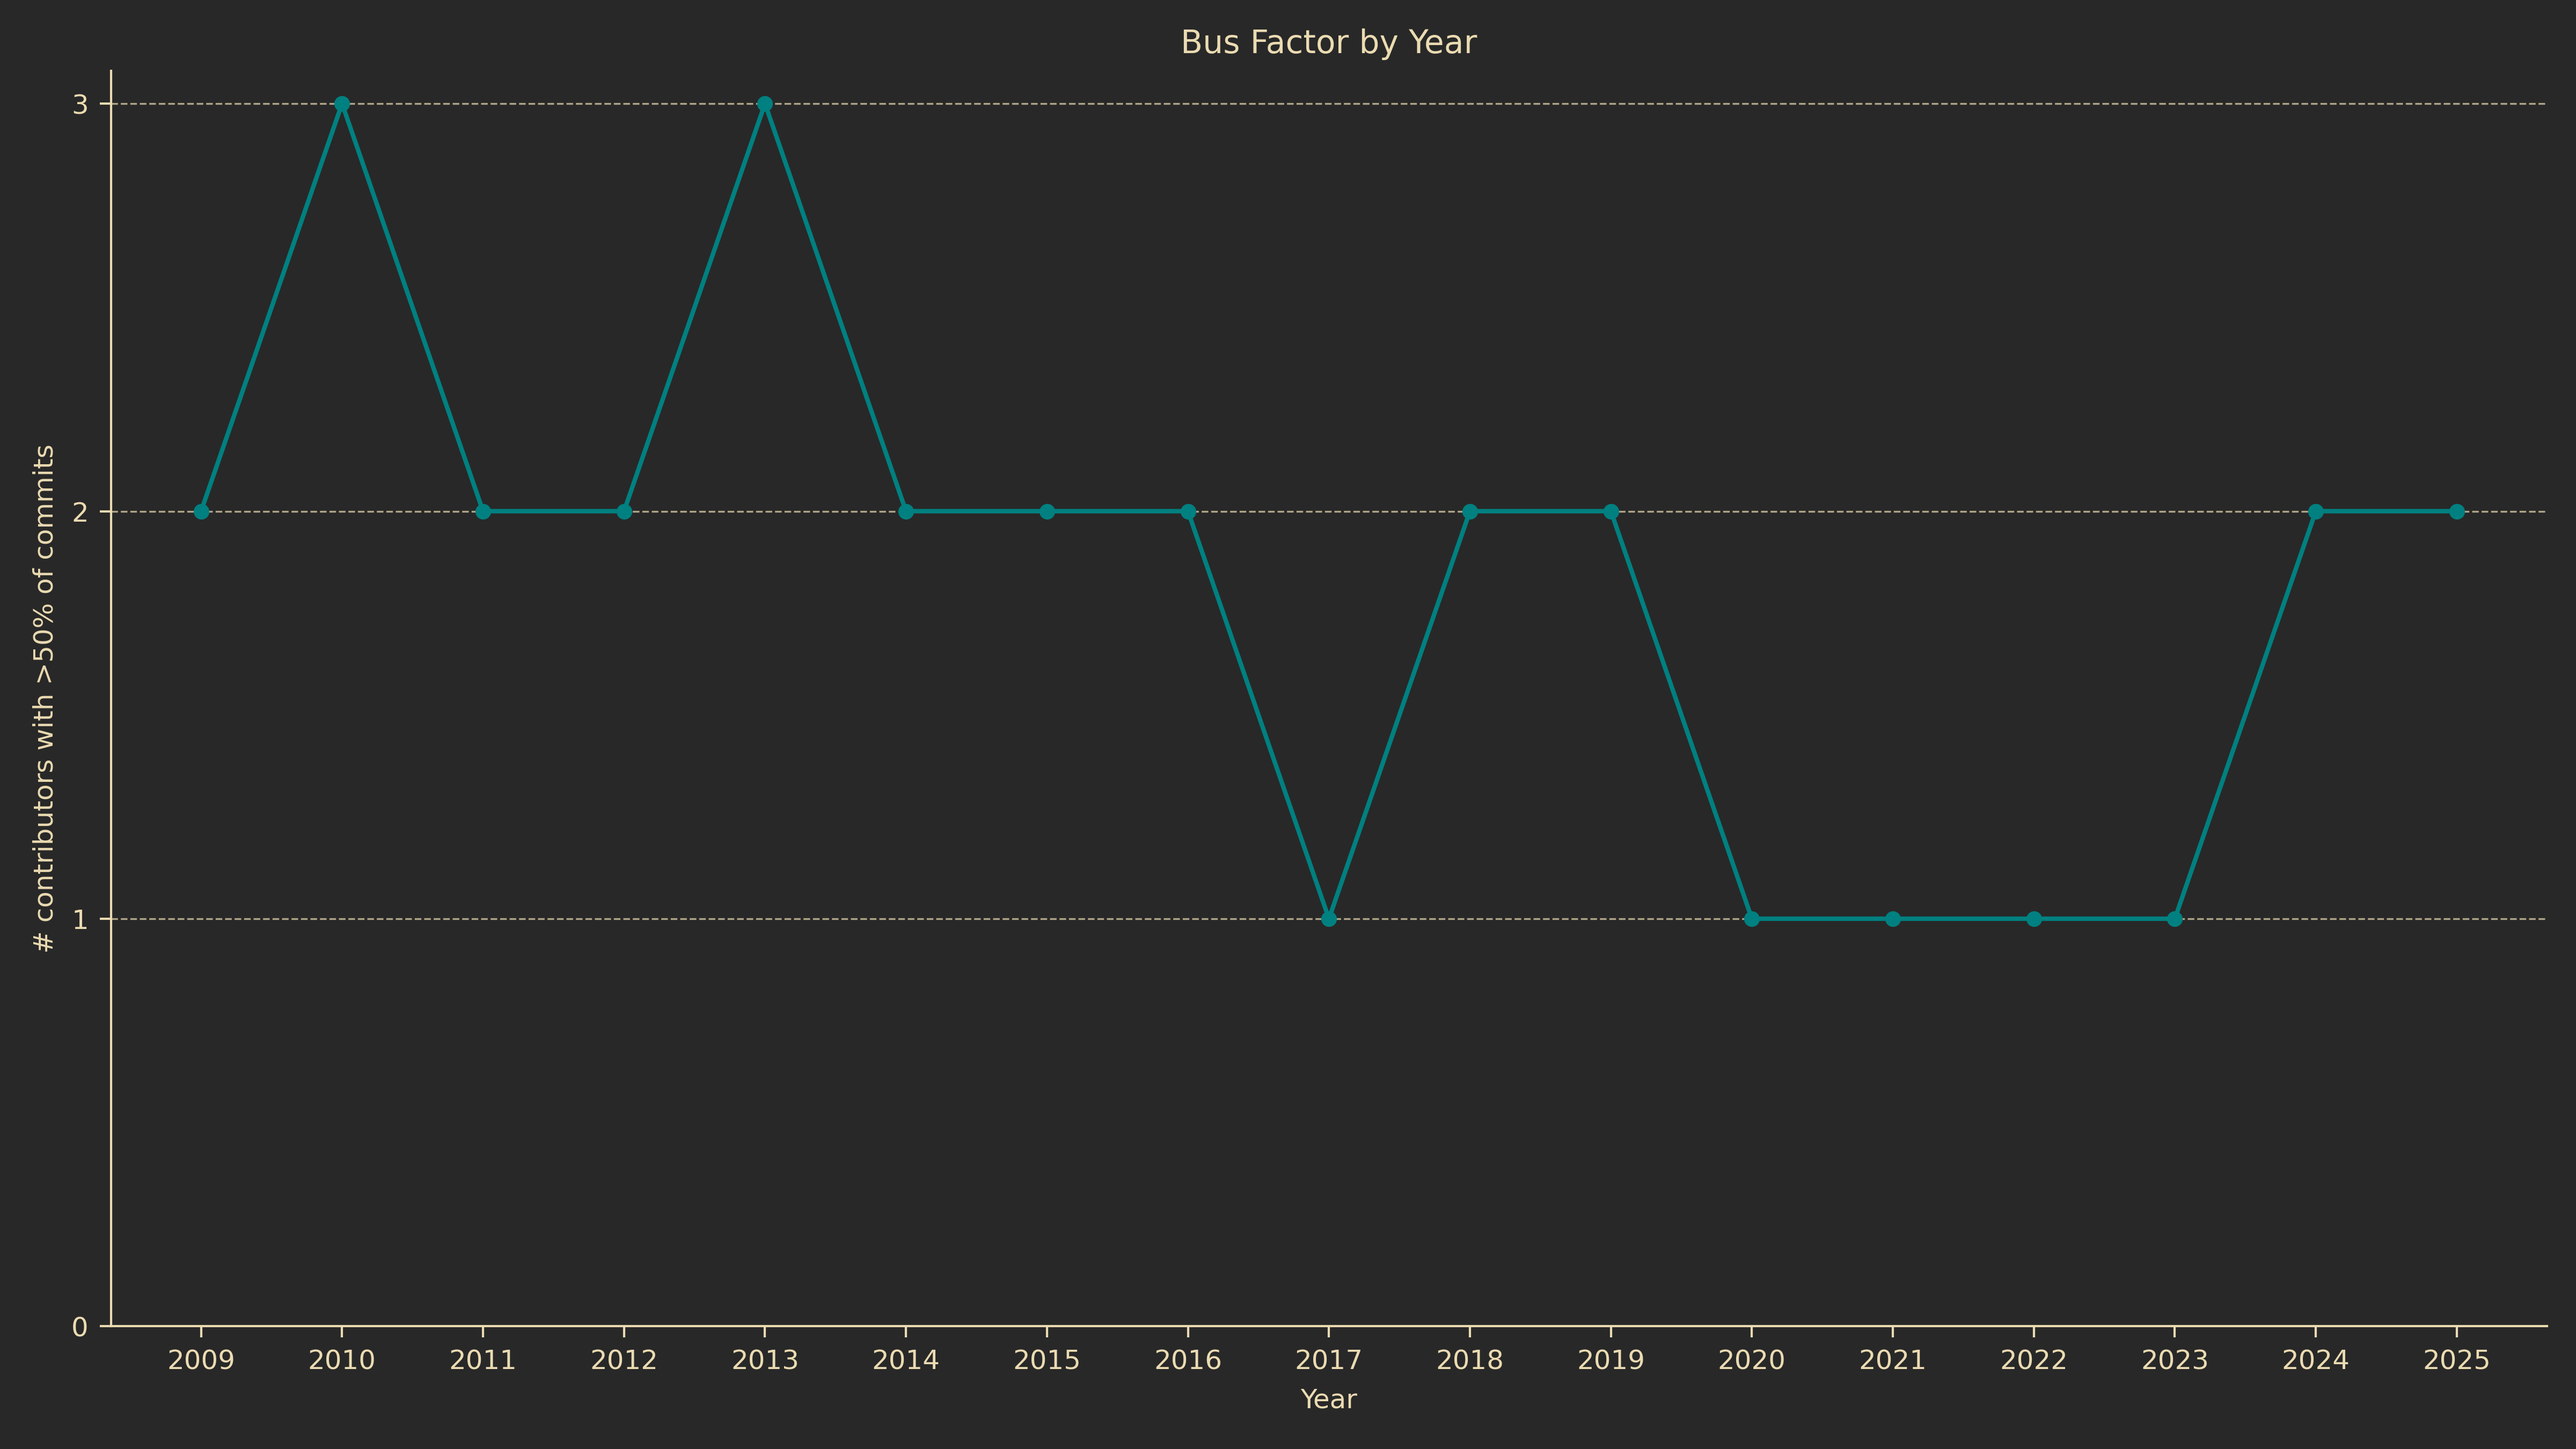
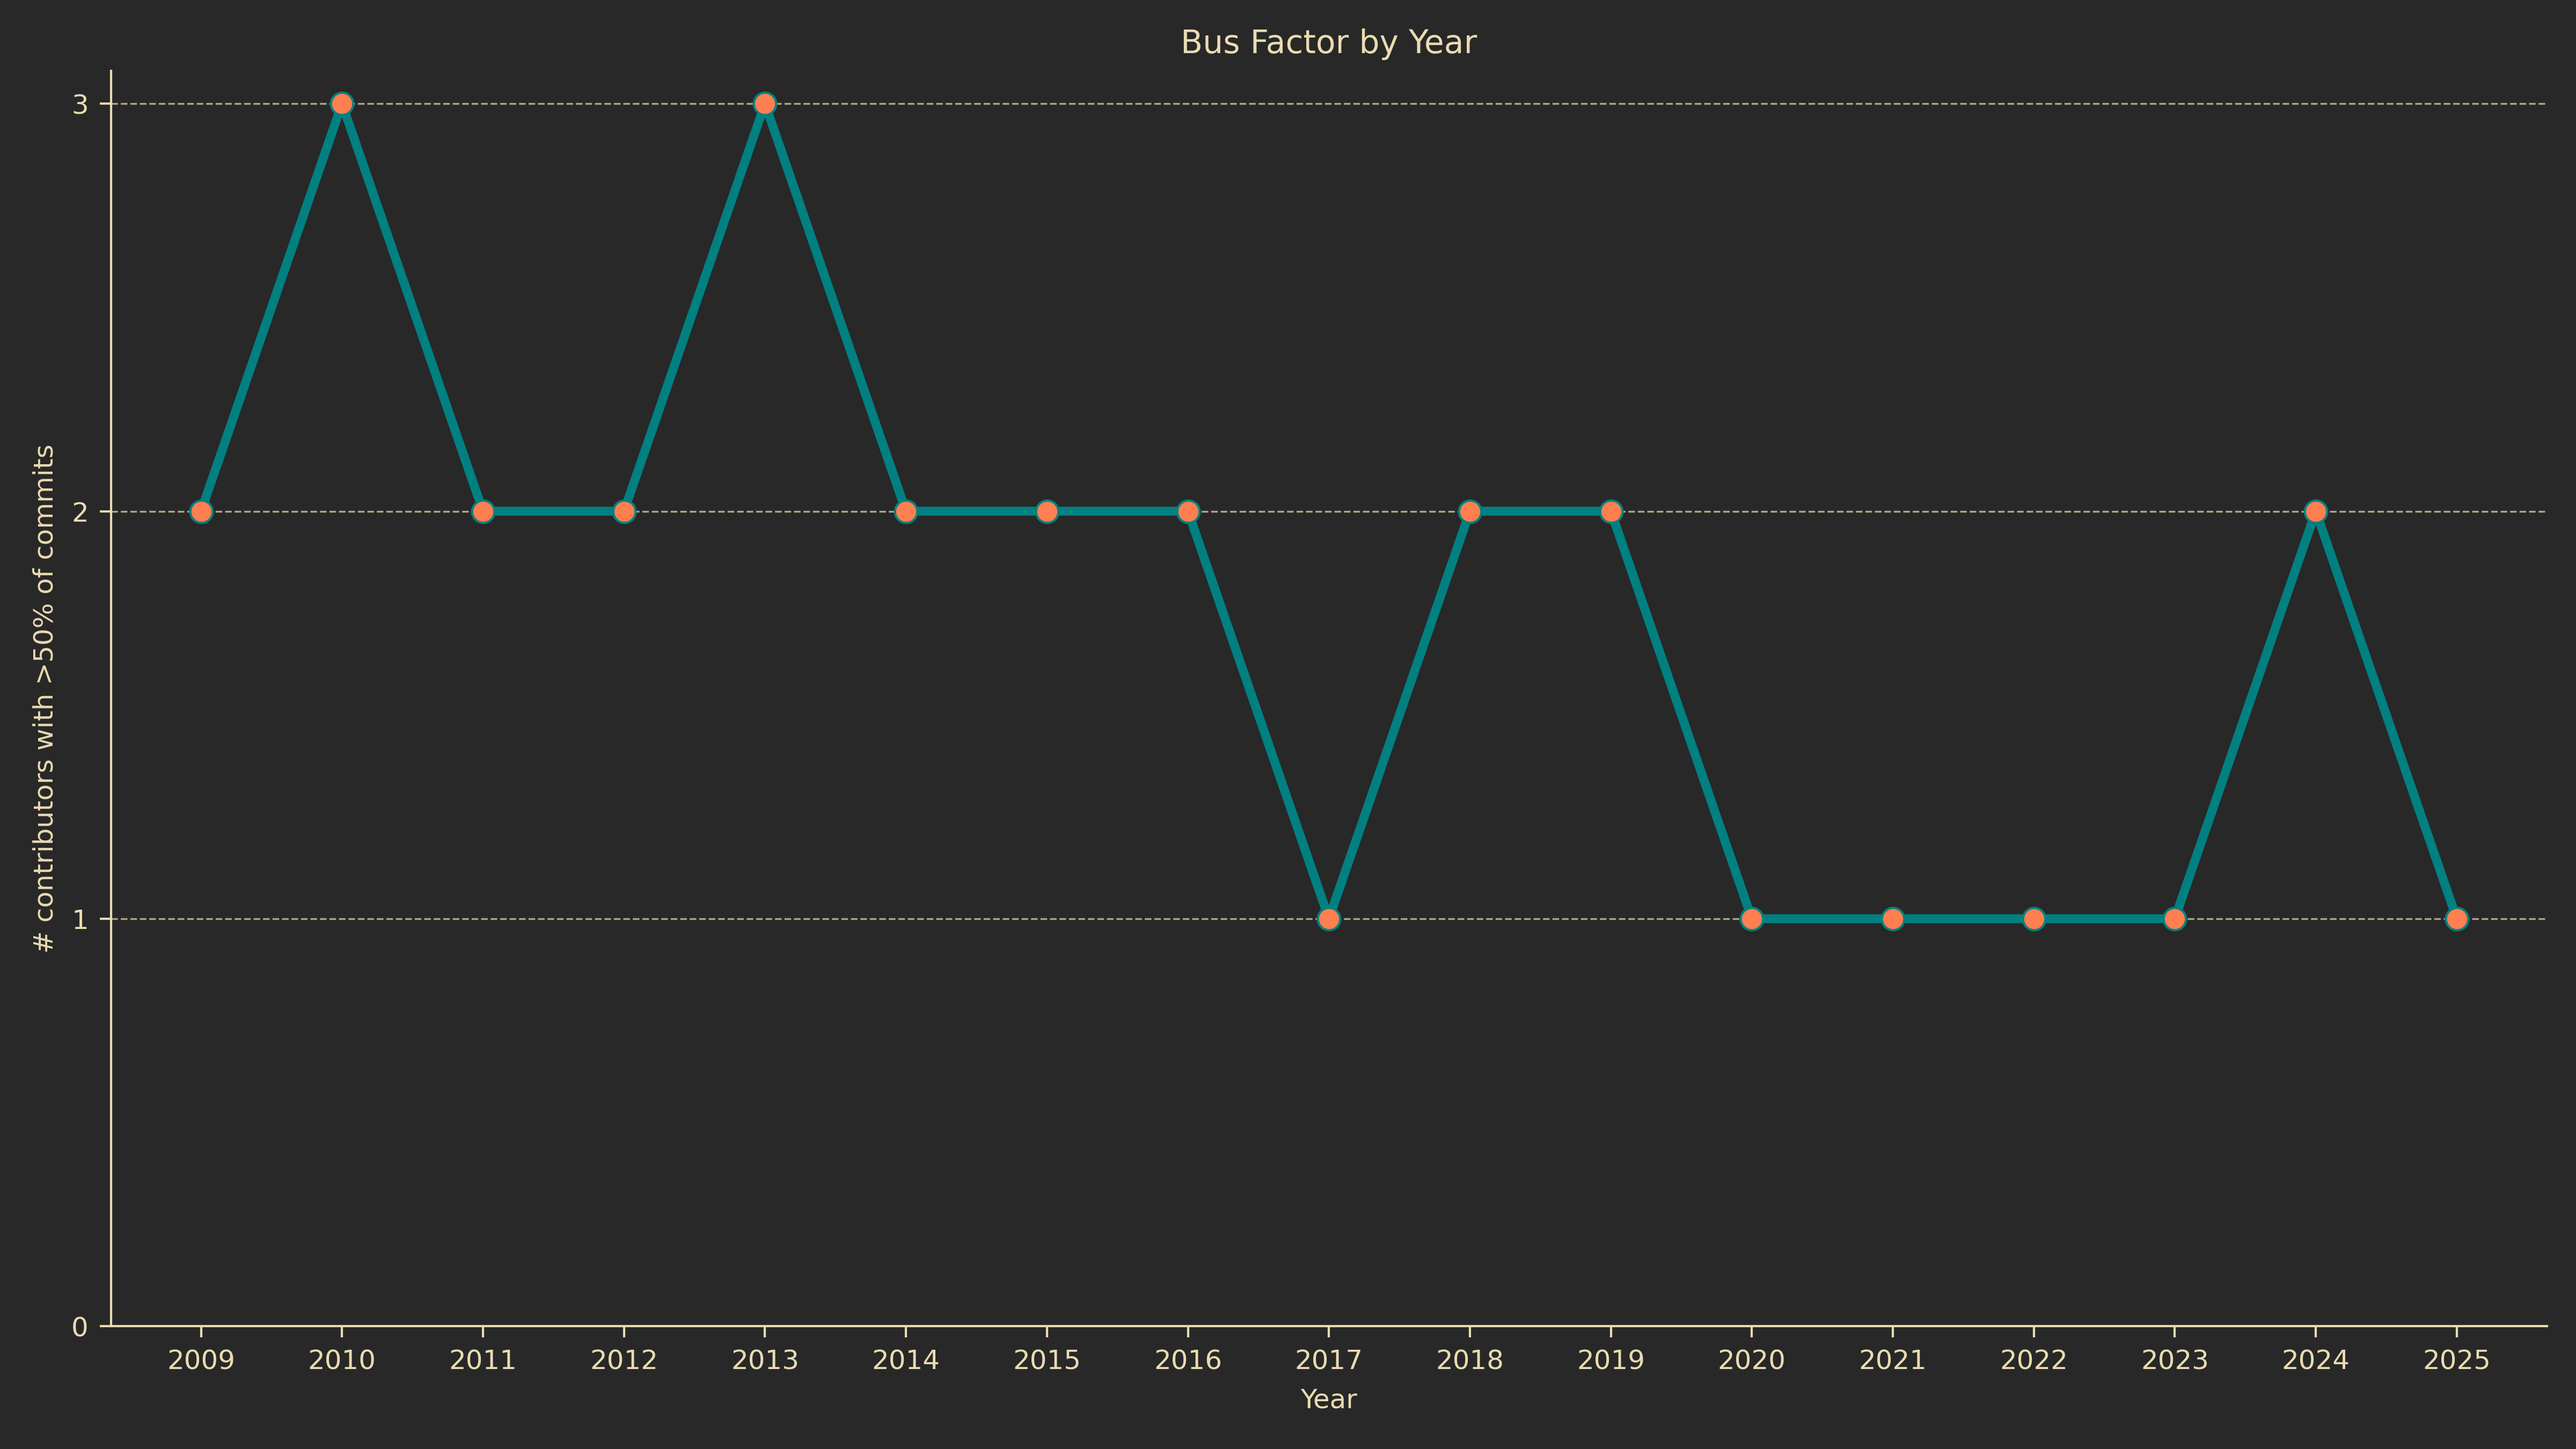
WIP: more stats

diff --git a/stats/contrib_absence.py b/stats/contrib_absence.py
@@ -56,7 +56,16 @@ def plot_contributor_absence(factor_by_year):
     factors = [factor_by_year[year] for year in years]
 
     fig, ax = plt.subplots(figsize=(16, 9))
-    plt.plot(years, factors, marker="o", linestyle="-", color="teal")
+    plt.plot(
+        years,
+        factors,
+        marker="o",
+        markersize=10,
+        markerfacecolor="coral",
+        linestyle="-",
+        linewidth=4,
+        color="teal",
+    )
     plt.title("Bus Factor by Year")
     plt.xlabel("Year")
     plt.ylabel("# contributors with >50% of commits")

diff --git a/stats/contributor_evolution.py b/stats/contributor_evolution.py
@@ -193,8 +193,9 @@ class GitContributorAnalyzer:
             plot_data["period_str"],
             plot_data["cumulative_contributors"],
             marker="o",
-            linewidth=3,
-            markersize=5,
+            linewidth=4,
+            markersize=10,
+            markerfacecolor="coral",
             color="#A23B72",
         )
         axes[0].set_title("All Contributors (Cumulative)")

diff --git a/PITCHME.md b/PITCHME.md
@@ -606,13 +606,19 @@ https://opensource.net/measure-open-source-project-health/
 
 ---
 
-* Code evolution (size, composition)
+# Metrics
+
+![](assets/slides/stats/metrics.png)
+
+---
+
+* Code evolution (size, languages)
 * Technical debt and legacy code
 * Contributors
 * Bus factor
 * Work-life balance
 
-Picked out some metrics whic are very easy to measure but you
+Picked out some metrics which are very easy to measure (just need your git repo) but you
 can still valuable insights from them
 
 ---
@@ -633,6 +639,11 @@ interesting to try to reverse-engineer what happened
 https://github.com/indico/indico/pull/6225/files
 
 - React keep growing
+
+- Cannot afford to rewrite everything
+- Lack of manpower
+- Risk of introducing new bugs, especially for something that has been battle-tested by thousands of users over many years
+- The old code has already worked all the kinks and bugs that you don't even know about
 -->
 
 ![bg contain](assets/slides/stats/languages.png)
@@ -662,11 +673,6 @@ Dealing with technical debt
 - same for React, there are newer UI frameworks but we need to look 5/10/15 years in the future
 - at the same, pragmatism beats purity
     - we still use jQuery in some parts, we'd like to get rid of it eventually but it works and the maintenance burden is low
-
-- Cannot afford to rewrite everything
-- Lack of manpower
-- Risk of introducing new bugs, especially for something that has been battle-tested by thousands of users over many years
-- The old code has already worked all the kinks and bugs that you don't even know about
  -->
 
 ![bg](assets/slides/stats/tech_debt.png)
@@ -701,6 +707,10 @@ https://github.com/indico/indico/commit/b1a3e14b90d16ad7883ed550081af54bdbb69bf8
 
 # Contributors
 
+* Mainly developed by CERN
+* We are on GitHub
+* Lots of contributions from other organizations & individuals
+
 ---
 
 <!--
@@ -716,6 +726,16 @@ https://github.com/indico/indico/commit/b1a3e14b90d16ad7883ed550081af54bdbb69bf8
  -->
 
 ![bg contain](assets/slides/stats/stats1.png)
+
+---
+
+# There are many ways to contribute!
+
+* Code
+* Docs
+* Design & Artwork
+* Community building
+* Just spreading the word
 
 ---
 
@@ -773,6 +793,7 @@ very grateful.
 
 - mention community in general? Indico workshops?
 
+- If any of the translations are wrong, you can help us fix them!
  -->
 
 
@@ -786,7 +807,13 @@ very grateful.
 What happens if the project lead gets hit by a bus or wins a lottery?
  -->
 
-![bg contain](assets/slides/stats/busfactor.png)
+# Bus Factor
+
+* Single point of failure
+* Proxy for knowledge distribution within the team
+* What we're doing: encourage more prople to review code
+
+![bg right contain](assets/slides/stats/busfactor.png)
 
 ---
 
@@ -800,6 +827,8 @@ What happens if the project lead gets hit by a bus or wins a lottery?
 ---
 
 # Maintaining a healthy work-life balance
+
+* A bit specific
 
 ---
 
